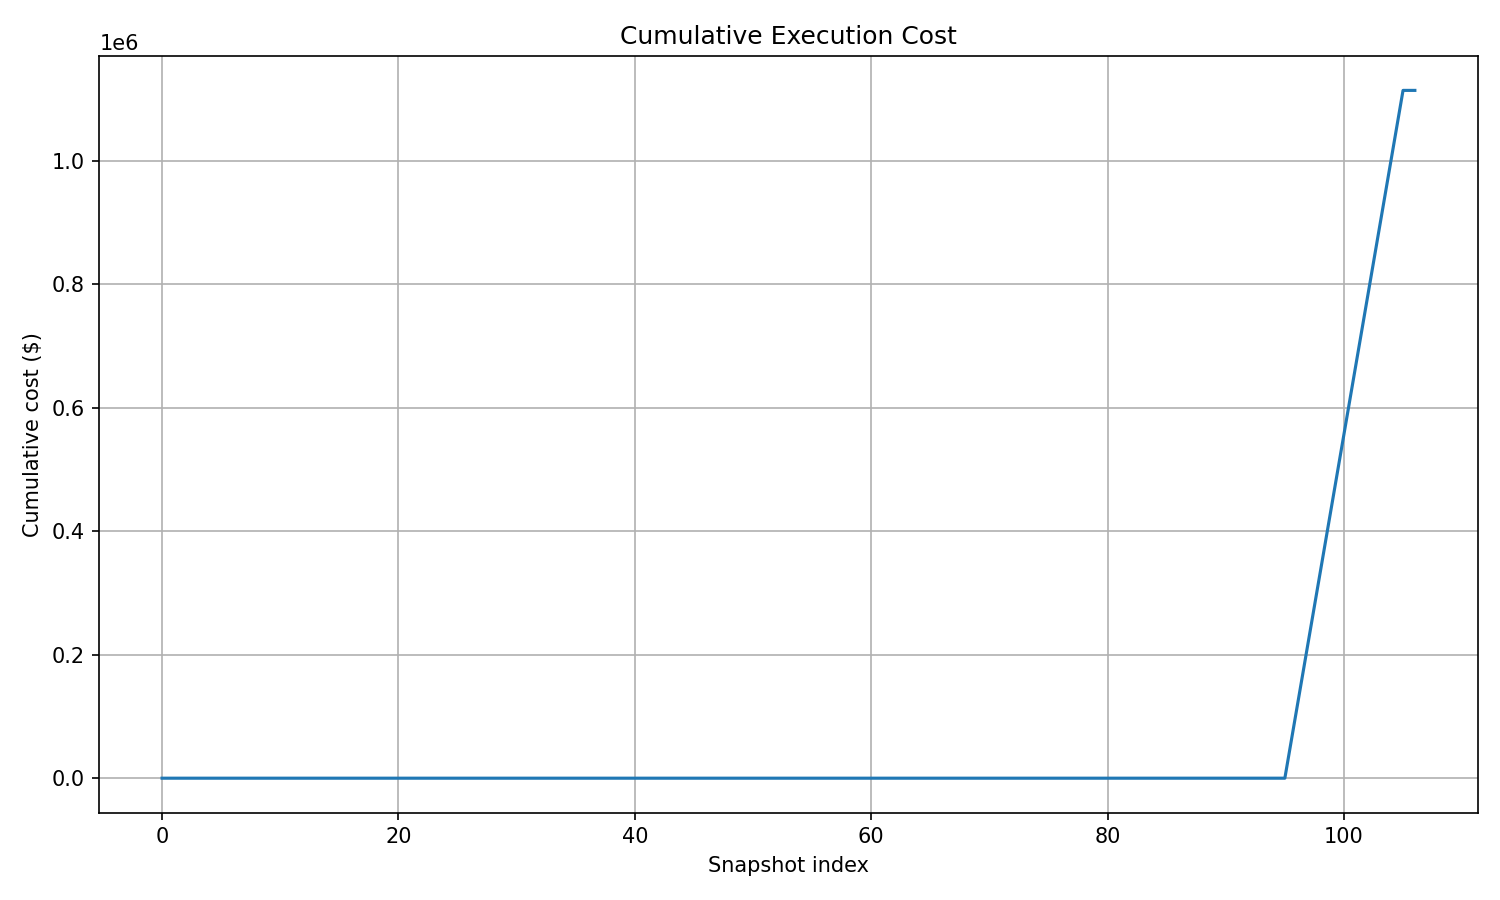
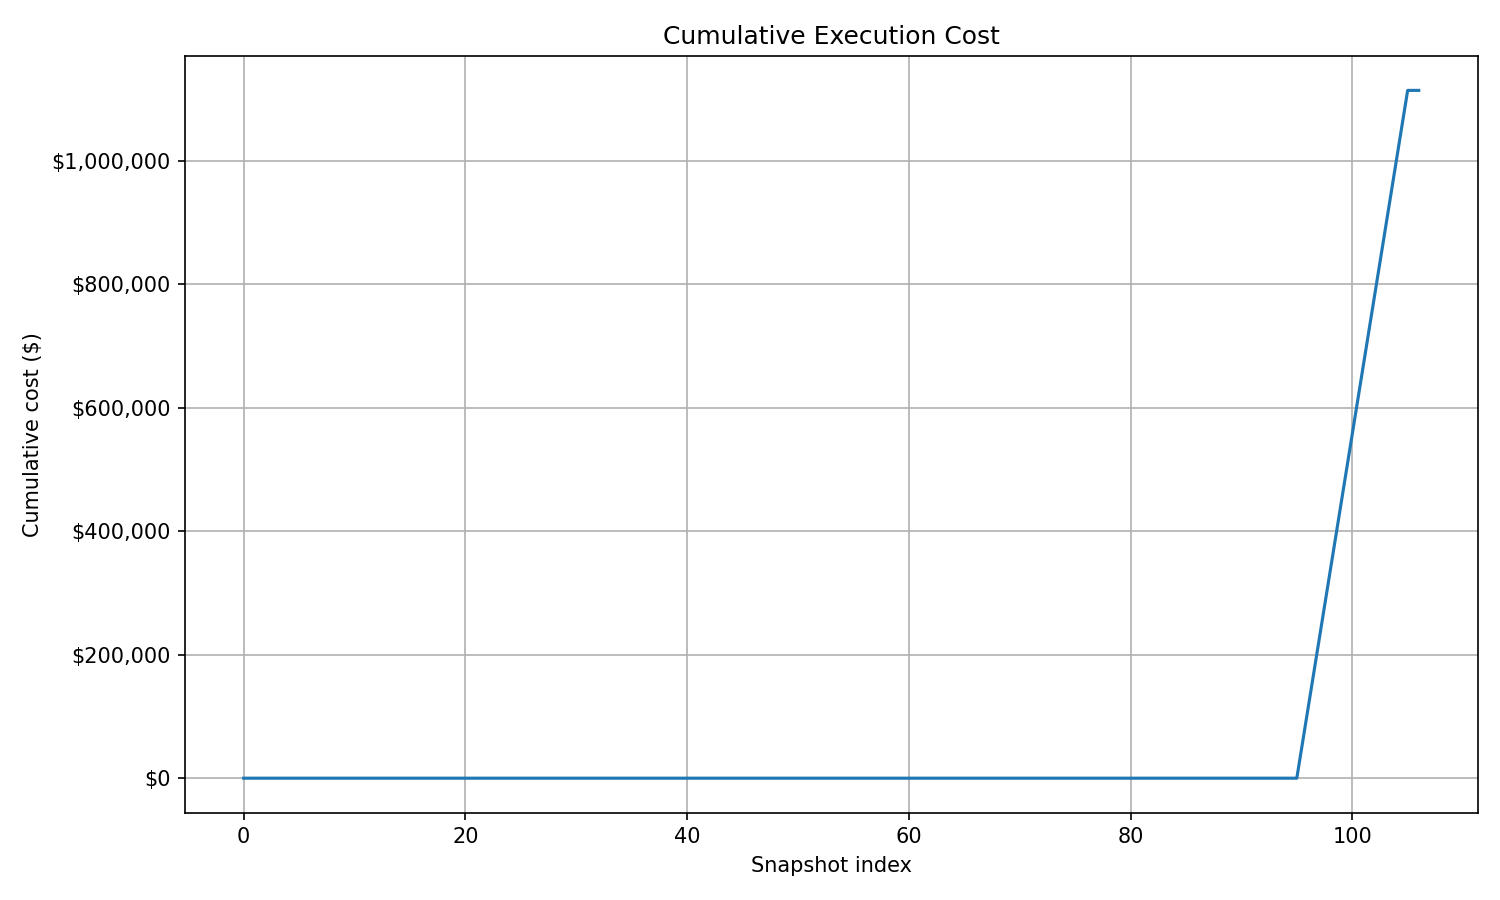
commiting

diff --git a/backtester.py b/backtester.py
@@ -4,6 +4,7 @@ import math
 import json
 #I imported matplotlib for the plot
 import matplotlib.pyplot as plt
+import matplotlib.ticker as mtick
 
 
 #Santiago Diaz Tolivia
@@ -412,10 +413,18 @@ def backtest_static_router(data,parent_order=5000,n_grid=7):
     plt.ylabel("Cumulative cost ($)")
     plt.title("Cumulative Execution Cost")
     plt.grid(True)
+
+    # get the Axes and turn off scientific notation
+    ax = plt.gca()
+    ax.ticklabel_format(style='plain', axis='y')
+
+    # format y‐ticks as dollars
+    ax.yaxis.set_major_formatter(mtick.StrMethodFormatter('${x:,.0f}'))
+
     plt.tight_layout()
-    plt.savefig("results.png", dpi=150)  # or "results.pdf"
+    plt.savefig("results.png", dpi=150)
     plt.close()
-    print("Cumulative‑cost plot written to results.png")
+    print("Cumulative-cost plot written to results.png")
 
 
     #baselines using their individual functions one pass each
